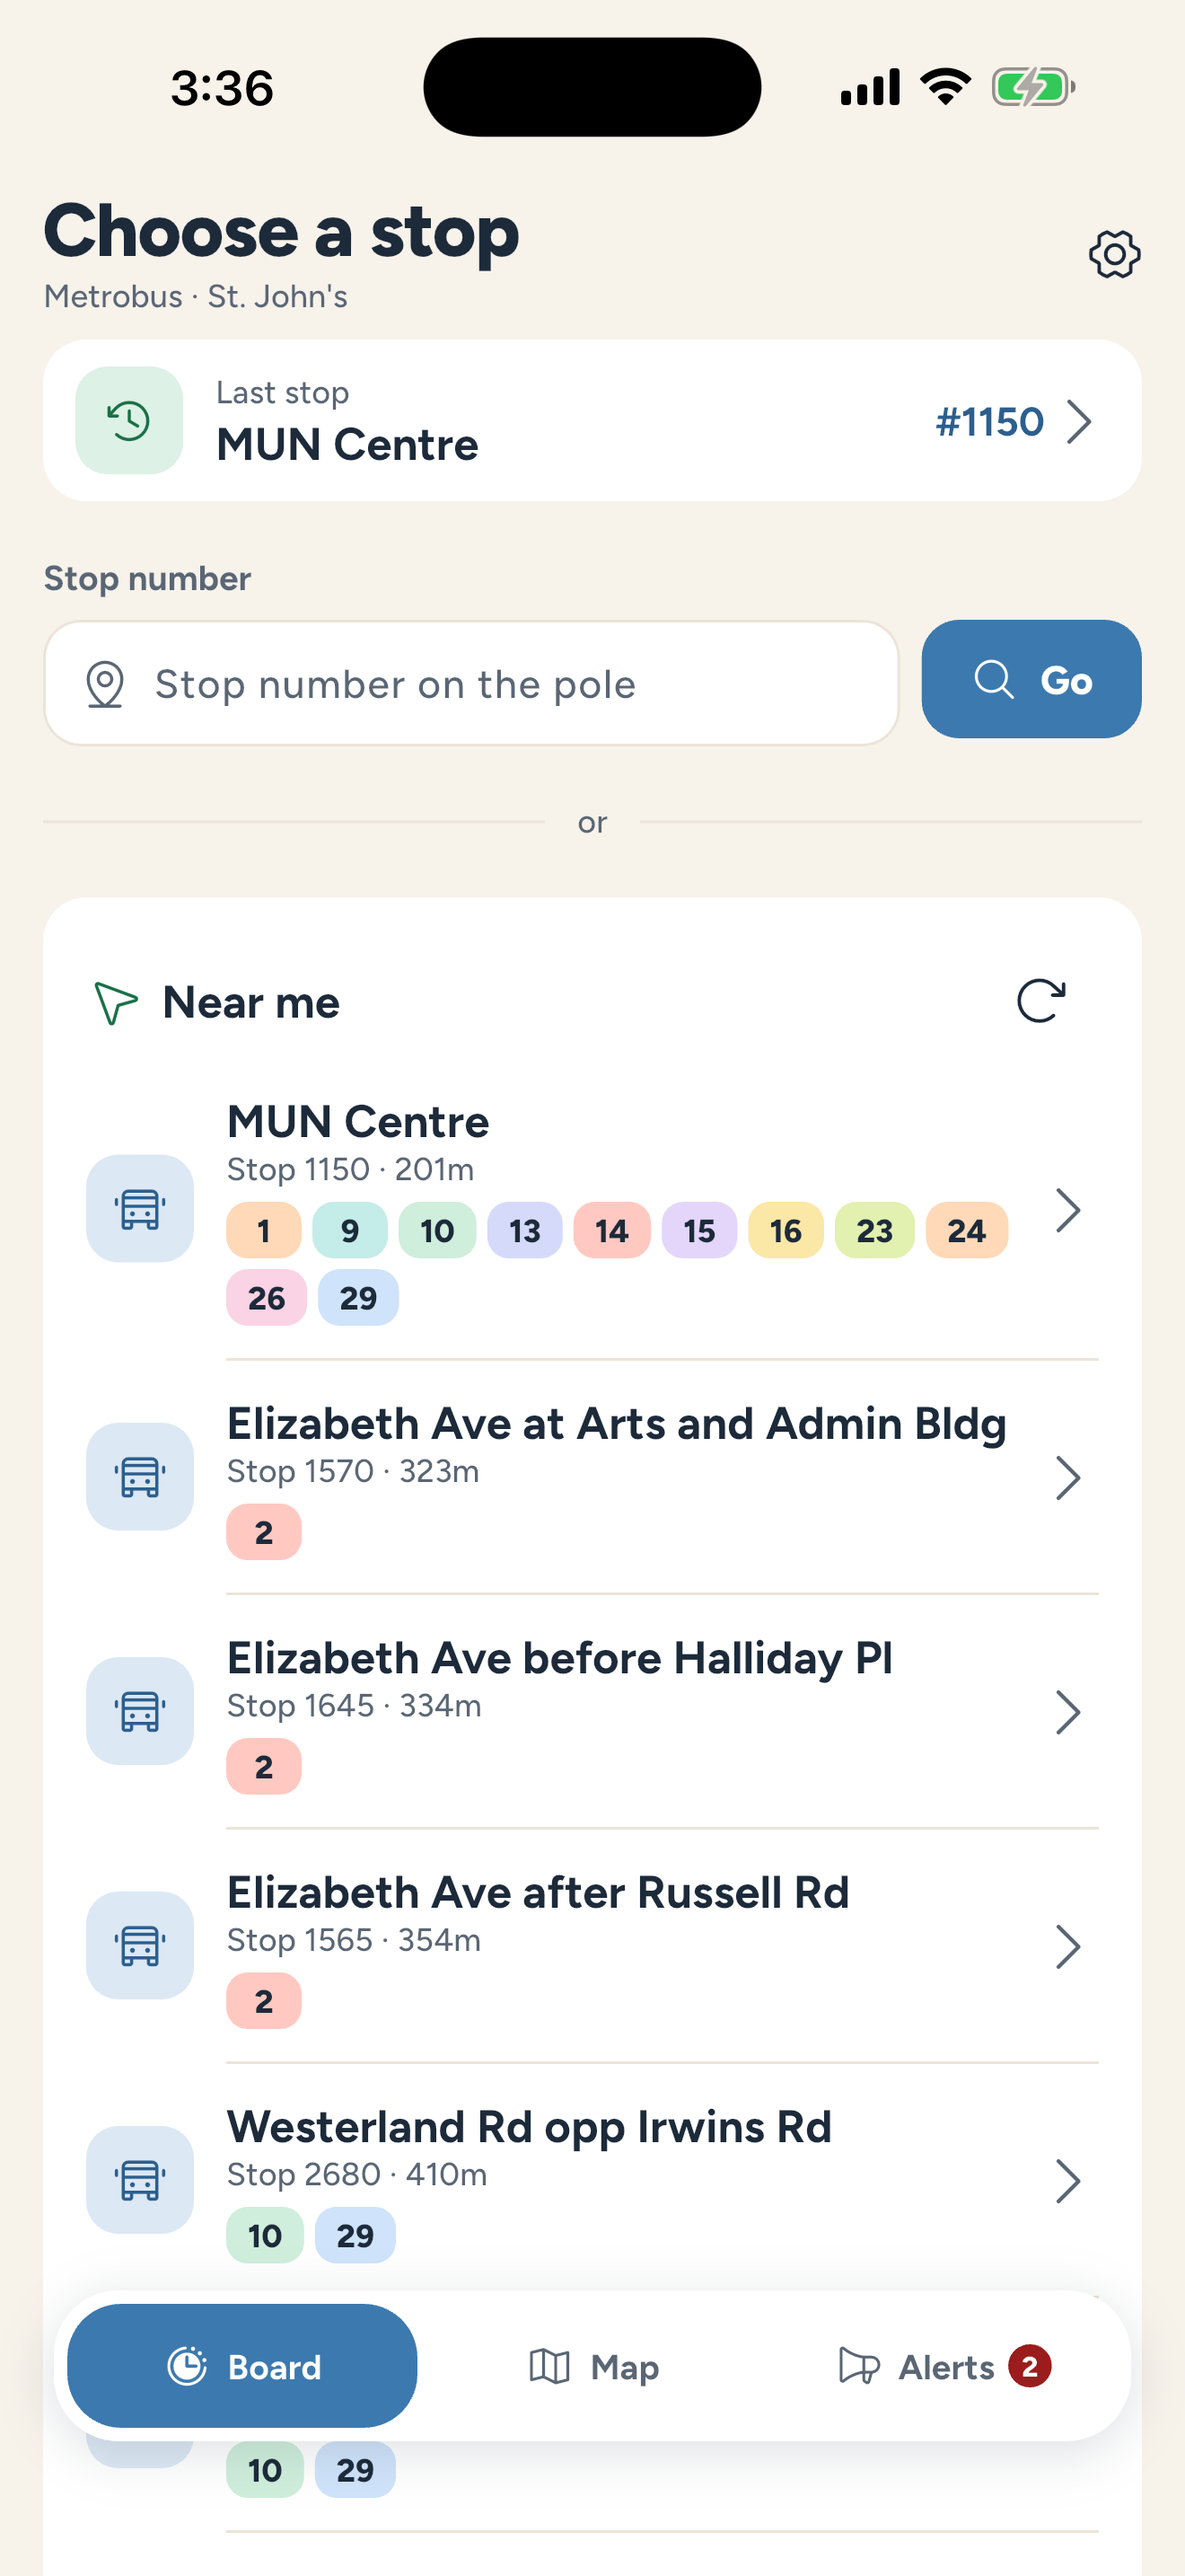
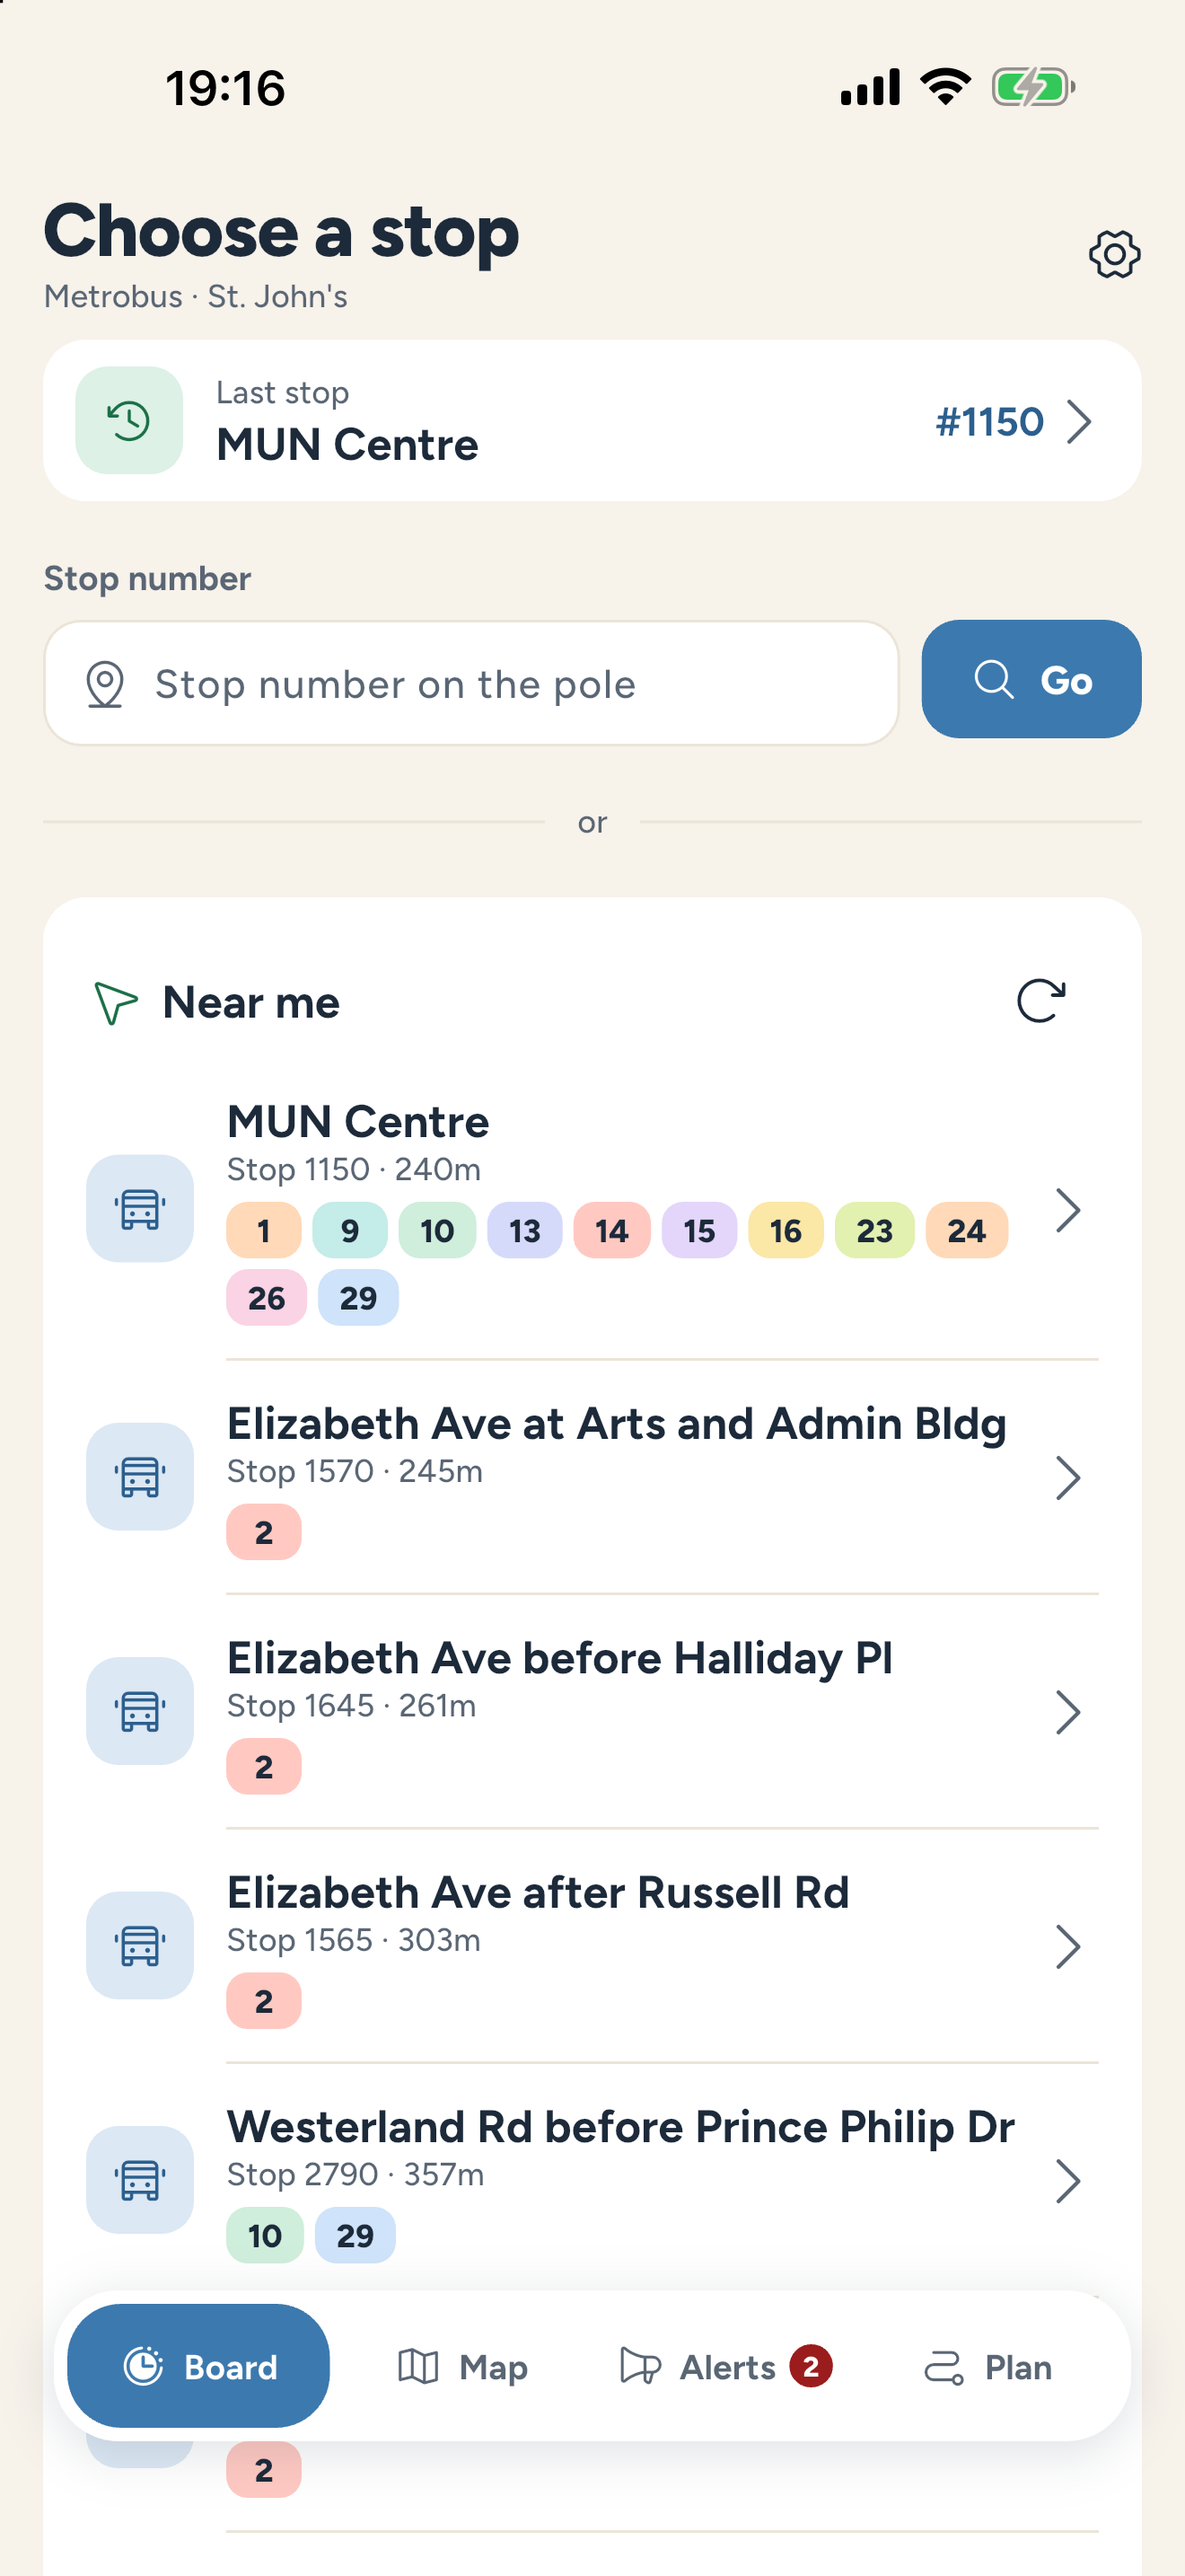
chore(store): 1.4.0 screenshots, feature graphic and listing text
- Fresh 1.4.0 captures with the 4-tab bar: Plan a trip, trip detail and
  arrival alert added; the five existing raws recaptured
- render.py: new 8-slide phone order led by the planner, a 6.5" iPhone
  set, tablets keep their 6-slide set, stale slides pruned per set
- Play feature graphic shows the Plan tab and mentions trip planning
- Play short/full description and App Store 1.4.0 metadata gain the
  trip planner ("Plan a trip" section, "Check any stop" heading)

diff --git a/store/google-play/media/source/feature_graphic.html b/store/google-play/media/source/feature_graphic.html
@@ -26,13 +26,13 @@ h1{margin:0;font-weight:800;font-size:58px;letter-spacing:-1px;line-height:1}
 <div class="copy">
   <div class="brand"><img src="../../../../assets/brand/busboard_icon.svg"><h1>BusBoard NL</h1></div>
   <p class="tag">Follow your bus<br>to your stop.</p>
-  <p class="sub">Live Metrobus arrivals, a live map and service alerts for St. John's.</p>
+  <p class="sub">Live Metrobus arrivals, trip planning, a live map and alerts for St. John's.</p>
   <div class="badges">
     <span class="b" style="background:#FFD9B8">1</span><span class="b" style="background:#FFC9C2">2</span>
     <span class="b" style="background:#CFEEDB">10</span><span class="b" style="background:#FBE7A6">16</span>
     <span class="b" style="background:#E2F0B0">23</span><span class="b" style="background:#CFE3FA">29</span>
   </div>
 </div>
-<div class="phone p2"><img src="../en-US/images/phoneScreenshots/01-mun-centre-1150.png"></div>
+<div class="phone p2"><img src="../en-US/images/phoneScreenshots/07-plan-a-trip.png"></div>
 <div class="phone p1"><img src="../en-US/images/phoneScreenshots/03-follow-a-bus.png"></div>
 </body></html>

diff --git a/store/marketing/render.py b/store/marketing/render.py
@@ -1,6 +1,6 @@
 """Render the store marketing screenshots (store/marketing/shot.html) with headless Chrome.
 
-  python3 store/marketing/render.py [iphone|ipad|android|tab7|tab10|all]
+  python3 store/marketing/render.py [iphone|iphone65|ipad|android|tab7|tab10|all]
 
 Output: store/marketing/out/<set>/NN-name.png (no alpha).
 """
@@ -10,8 +10,20 @@ HERE = os.path.dirname(os.path.abspath(__file__))
 STORE = os.path.dirname(HERE)
 CHROME = '/Applications/Google Chrome.app/Contents/MacOS/Google Chrome'
 
-# Order: the strongest feature first.
+# Order: the strongest feature first. Eight slides, Google Play's limit for phone screenshots.
 SLIDES = [
+    ('01-plan', '07-plan-a-trip', 'blue', 'Plan a trip,<br>any minute', 'Leave now, leave by or arrive by,<br>with live bus times'),
+    ('02-follow', '03-follow-a-bus', 'blue', 'Follow your bus<br>to your stop', 'See the stops left, the minutes away,<br>and when it arrives'),
+    ('03-arrival-alert', '09-arrival-alert', 'blue', 'Know when<br>to head out', 'Get a heads-up when your bus is<br>3, 5 or 10 minutes away'),
+    ('04-arrivals', '01-mun-centre-1150', 'blue', 'Live arrivals<br>at your stop', 'Metrobus predictions next to the schedule,<br>early or late at a glance'),
+    ('05-trip-detail', '08-trip-detail', 'blue', 'Save the trips<br>you take often', 'Your next buses, one tap away,<br>worked out on your phone'),
+    ('06-map', '02-live-map', 'blue', 'Every bus,<br>live on the map', 'Route colours and smooth movement<br>between position updates'),
+    ('07-nearby', '05-nearby-stops', 'blue', 'Stops near you,<br>in a tap', 'Nearby stops with their routes,<br>or enter any stop number'),
+    ('08-service-alerts', '04-service-alerts', 'blue', 'Detours and alerts<br>for your routes', 'Official Metrobus service alerts,<br>matched to your stop'),
+]
+
+# The 1.2.0 set, still used by the Android tablets (no 1.3/1.4 captures for them yet).
+TABLET_SLIDES = [
     ('01-follow', '03-follow-a-bus', 'blue', 'Follow your bus<br>to your stop', 'See the stops left, the minutes away,<br>and when it arrives'),
     ('02-arrivals', '01-mun-centre-1150', 'blue', 'Live arrivals<br>at your stop', 'Metrobus predictions next to the schedule,<br>early or late at a glance'),
     ('03-map', '02-live-map', 'blue', 'Every bus,<br>live on the map', 'Route colours and smooth movement<br>between position updates'),
@@ -21,19 +33,25 @@ SLIDES = [
 ]
 
 SETS = {
-    # name: (device, width, height, source dir)
-    'iphone': ('iphone', 1320, 2868, 'app-store/screenshots/APP_IPHONE_69'),
-    'ipad': ('ipad', 2064, 2752, 'app-store/screenshots/APP_IPAD_PRO_3GEN_129'),
-    'android': ('android', 1080, 2160, 'marketing/clean/phoneScreenshots'),
-    'tab7': ('tablet', 1200, 1920, 'marketing/clean/sevenInchScreenshots'),
-    'tab10': ('tablet', 1600, 2560, 'marketing/clean/tenInchScreenshots'),
+    # name: (device, width, height, source dir, slides)
+    'iphone': ('iphone', 1320, 2868, 'app-store/screenshots/APP_IPHONE_69', SLIDES),
+    # 6.5" renders from the 6.9" captures at the 6.5" size.
+    'iphone65': ('iphone', 1284, 2778, 'app-store/screenshots/APP_IPHONE_69', SLIDES),
+    'ipad': ('ipad', 2064, 2752, 'app-store/screenshots/APP_IPAD_PRO_3GEN_129', SLIDES),
+    'android': ('android', 1080, 2160, 'marketing/clean/phoneScreenshots', SLIDES),
+    'tab7': ('tablet', 1200, 1920, 'marketing/clean/sevenInchScreenshots', TABLET_SLIDES),
+    'tab10': ('tablet', 1600, 2560, 'marketing/clean/tenInchScreenshots', TABLET_SLIDES),
 }
 
 def render(name):
-    device, w, h, src = SETS[name]
+    device, w, h, src, slides = SETS[name]
     out = os.path.join(HERE, 'out', name)
     os.makedirs(out, exist_ok=True)
-    for slug, shot, bg, title, sub in SLIDES:
+    keep = {slug + '.png' for slug, *_ in slides}
+    for f in os.listdir(out):  # drop slides that left the order
+        if f.endswith('.png') and f not in keep:
+            os.remove(os.path.join(out, f))
+    for slug, shot, bg, title, sub in slides:
         img = os.path.join(STORE, src, shot + '.png')
         qs = urllib.parse.urlencode({'w': w, 'h': h, 'device': device, 'bg': bg, 't': title, 'sub': sub, 'img': 'file://' + img})
         tmp = os.path.join(out, slug + '.rgba.png')
